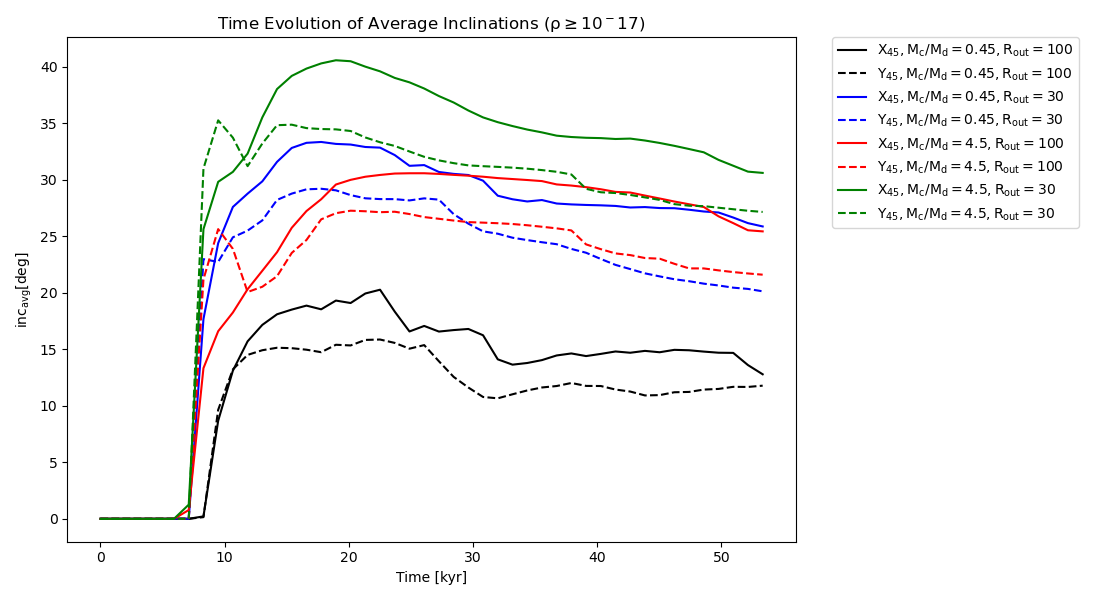
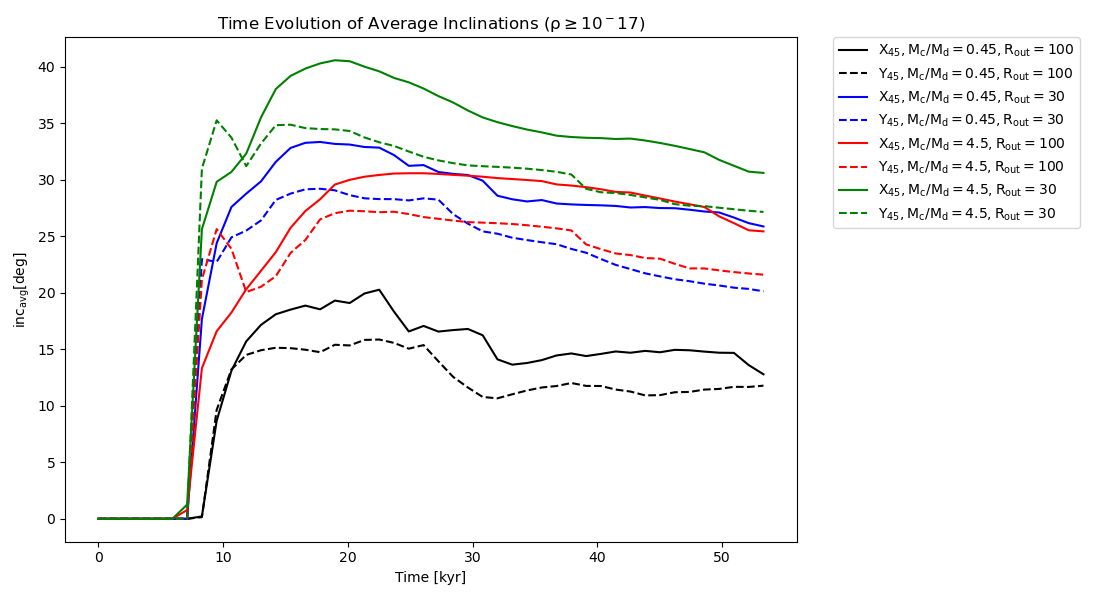
added param study plots to no_thoughts_just_plots

diff --git a/param_study.py b/param_study.py
@@ -6,7 +6,7 @@ from read import get_domain_spherical, get_data, load_par_file, get_param_value
 import matplotlib.pyplot as plt
 from analysis import calc_cell_volume, calc_mass, sph_to_cart, calc_simtime, vel_sph_to_cart, centering, calc_angular_momentum, isolate_disk, calc_L_average, calc_inc_twist
 from accretion import scale_height, calc_accretion
-from no_thoughts_just_plots import quiver_plot_3d, contours_3D, plot_surf_dens, plot_twist_arrows, plot_total_disks_bonanza, cyl_2D_plot, XY_2D_plot
+from no_thoughts_just_plots import quiver_plot_3d, contours_3D, plot_surf_dens, plot_twist_arrows, plot_total_disks_bonanza, cyl_2D_plot, XY_2D_plot, param_study_plot
 import astropy.constants as c
 import pandas as pd
 au = c.au.cgs.value
@@ -20,8 +20,11 @@ stoky = 3.156e7 * 1e3     # 1 kyr in sec
 
 def main():
 
+    # Simulation data in BinAC2
+    # folders = [Path("../fargo3d/outputs/cloud_disk_it450_rotX45"), Path("../fargo3d/outputs/cloud_disk_it450_rotY45"), Path("../fargo3d/outputs/cloud_disk_it450_Rout30_rotX45"), Path("../fargo3d/outputs/cloud_disk_it450_Rout30_rotY45"), Path("../fargo3d/outputs/cloud_disk_it450_cmass10_rotX45"), Path("../fargo3d/outputs/cloud_disk_it450_cmass10_rotY45"), Path("../fargo3d/outputs/cloud_disk_it450_cmass10_Rout30_rotX45"), Path("../fargo3d/outputs/cloud_disk_it450_cmass10_Rout30_rotY45")]
 
-    folders = [Path("../fargo3d/outputs/cloud_disk_it450_rotX45"), Path("../fargo3d/outputs/cloud_disk_it450_rotY45"), Path("../fargo3d/outputs/cloud_disk_it450_Rout30_rotX45"), Path("../fargo3d/outputs/cloud_disk_it450_Rout30_rotY45"), Path("../fargo3d/outputs/cloud_disk_it450_cmass10_rotX45"), Path("../fargo3d/outputs/cloud_disk_it450_cmass10_rotY45"), Path("../fargo3d/outputs/cloud_disk_it450_cmass10_Rout30_rotX45"), Path("../fargo3d/outputs/cloud_disk_it450_cmass10_Rout30_rotY45")]
+    # Simulation data locally
+    folders = [Path("../cloud_disk_it450_rotX45"), Path("../cloud_disk_it450_rotY45"), Path("../cloud_disk_it450_Rout30_rotX45"), Path("../cloud_disk_it450_Rout30_rotY45"), Path("../cloud_disk_it450_cmass10_rotX45"), Path("../cloud_disk_it450_cmass10_rotY45"), Path("../cloud_disk_it450_cmass10_Rout30_rotX45"), Path("../cloud_disk_it450_cmass10_Rout30_rotY45")]
 
     folders_labels = {"cloud_disk_it450_rotX45": r"$\mathrm{X_{45}, M_{c} / M_{d}=0.45, R_{out} = 100}$", "cloud_disk_it450_rotY45": r"$\mathrm{Y_{45}, M_{c} / M_{d}=0.45, R_{out} = 100}$", 
     "cloud_disk_it450_Rout30_rotX45": r"$\mathrm{X_{45}, M_{c} / M_{d}=0.45, R_{out} = 30}$",
@@ -48,7 +51,7 @@ def main():
     for f in folders:
         
         # Load simulation 
-        f_sim_name = str(f).split('/')[3]                       # Simulation name (for plot labels)
+        f_sim_name = str(f).split('/')[1]                       # Simulation name (for plot labels)
         domains = get_domain_spherical(f)                       # Load coordinates  
         it = 450                                                # Final iteration (t=53kyr)    
 
@@ -171,61 +174,11 @@ def main():
     # Plotting inc_avg vs time 
     fig, ax = plt.subplots(figsize=(11, 6))
     colours = ['black', 'blue', 'red', 'green']
-    current_color_index = -1
-    last_base = None    
-    for key, value in disk_inc_avg_folder.items():
-
-        # Plotting rotX simulations in solid lines and rotY simulations in dashed lines (but same colour for easy comparison)
-        if "rotX" in key:
-            base = key.replace("rotX", "")
-            ls = "-"
-        elif "rotY" in key:
-            base = key.replace("rotY", "")
-            ls = "--"
-        # Only change color when we encounter a new base (first time we see either X or Y)
-        if base != last_base:
-            current_color_index = (current_color_index + 1) % len(colours)
-            last_base = base
-
-        colour = colours[current_color_index]
-        ax.plot(allit_years, value, linestyle=ls, color=colour, label=folders_labels[key])
-
-    ax.set_xlabel(r"Time [kyr]")
-    ax.set_ylabel(r"$\mathrm{inc_{avg} [deg]}$")
-    ax.set_title(fr"Time Evolution of Average Inclinations $(\mathrm{{\rho \geq 10^{warp_thresh}}})$")
-    ax.legend(loc='upper left', bbox_to_anchor=(1.05, 1), borderaxespad=0.)   # loc='upper left', 
-    plt.tight_layout()
-    plt.savefig(f'param_study_inc_avg_vs_t_warp{warp_thresh}.png')
-    plt.show()
+    param_study_plot(fig, ax, disk_inc_avg_folder, allit_years, folders_labels, colours, xlabel=r"Time [kyr]", ylabel=r"$\mathrm{inc_{avg} [deg]}$", title=fr"Time Evolution of Average Inclinations $(\mathrm{{\rho \geq 10^{warp_thresh}}})$", figfolder=f'param_study_inc_avg_vs_t_warp{warp_thresh}.png', savefig=True, showfig=True)
 
     # Plotting twist_avg vs time 
     fig, ax = plt.subplots(figsize=(11, 6))
-    current_color_index = -1
-    last_base = None
-    for key, value in disk_twist_avg_folder.items():
-
-        # Plotting rotX simulations in solid lines and rotY simulations in dashed lines (but same colour for easy comparison)
-        if "rotX" in key:
-            base = key.replace("rotX", "")
-            ls = "-"
-        elif "rotY" in key:
-            base = key.replace("rotY", "")
-            ls = "--"
-        # Only change color when we encounter a new base (first time we see either X or Y)
-        if base != last_base:
-            current_color_index = (current_color_index + 1) % len(colours)
-            last_base = base
-
-        colour = colours[current_color_index]
-        ax.plot(allit_years, value, linestyle=ls, color=colour, label=folders_labels[key])
-        
-    ax.set_xlabel(r"Time [kyr]")
-    ax.set_ylabel(r"$\mathrm{twist_{avg} [deg]}$")
-    ax.set_title(fr"Time Evolution of Average Twist $(\mathrm{{\rho \geq 10^{warp_thresh}}})$")
-    ax.legend(loc='upper left', bbox_to_anchor=(1.05, 1), borderaxespad=0.)   # loc='upper left', 
-    plt.tight_layout()
-    plt.savefig(f'param_study_twist_avg_vs_t_warp{warp_thresh}.png')
-    plt.show()
+    param_study_plot(fig, ax, disk_twist_avg_folder, allit_years, folders_labels, colours, xlabel=r"Time [kyr]", ylabel=r"$\mathrm{twist_{avg} [deg]}$", title=fr"Time Evolution of Average Twist $(\mathrm{{\rho \geq 10^{warp_thresh}}})$", figfolder=f'param_study_twist_avg_vs_t_warp{warp_thresh}.png', savefig=True, showfig=True)
 
     # Plotting absolute values of twist_avg vs time 
     fig, ax = plt.subplots(figsize=(11, 6))

diff --git a/no_thoughts_just_plots.py b/no_thoughts_just_plots.py
@@ -549,3 +549,44 @@ def make_evol_GIF(directory, fname, gif_name, delete_files=True):
             os.remove(f'{directory}/{file}') 
 
     return
+
+
+def param_study_plot(fig, ax, param_dict, x_arr, folders_labels, colours, xlabel, ylabel, title, figfolder, savefig, showfig):
+    """
+    Creates plots to compare values across parametric study of simulations
+    """
+
+    current_color_index = -1
+    last_base = None
+    for key, value in param_dict.items():
+
+        # Plotting rotX simulations in solid lines and rotY simulations in dashed lines (but same colour for easy comparison)
+        if "rotX" in key:
+            base = key.replace("rotX", "")
+            ls = "-"
+        elif "rotY" in key:
+            base = key.replace("rotY", "")
+            ls = "--"
+        # Only change color when we encounter a new base (first time we see either X or Y)
+        if base != last_base:
+            current_color_index = (current_color_index + 1) % len(colours)
+            last_base = base
+
+        colour = colours[current_color_index]
+        ax.plot(x_arr, value, linestyle=ls, color=colour, label=folders_labels[key])
+
+    ax.set_xlabel(xlabel)
+    ax.set_ylabel(ylabel)
+    ax.set_title(title)
+    ax.legend(loc='upper left', bbox_to_anchor=(1.05, 1), borderaxespad=0.)   # loc='upper left', 
+    plt.tight_layout()
+
+    # Save the figure?
+    if savefig == True:
+        plt.savefig(figfolder)
+
+    # Display the figure?
+    if showfig:
+        plt.show()
+    else:
+        plt.close()
